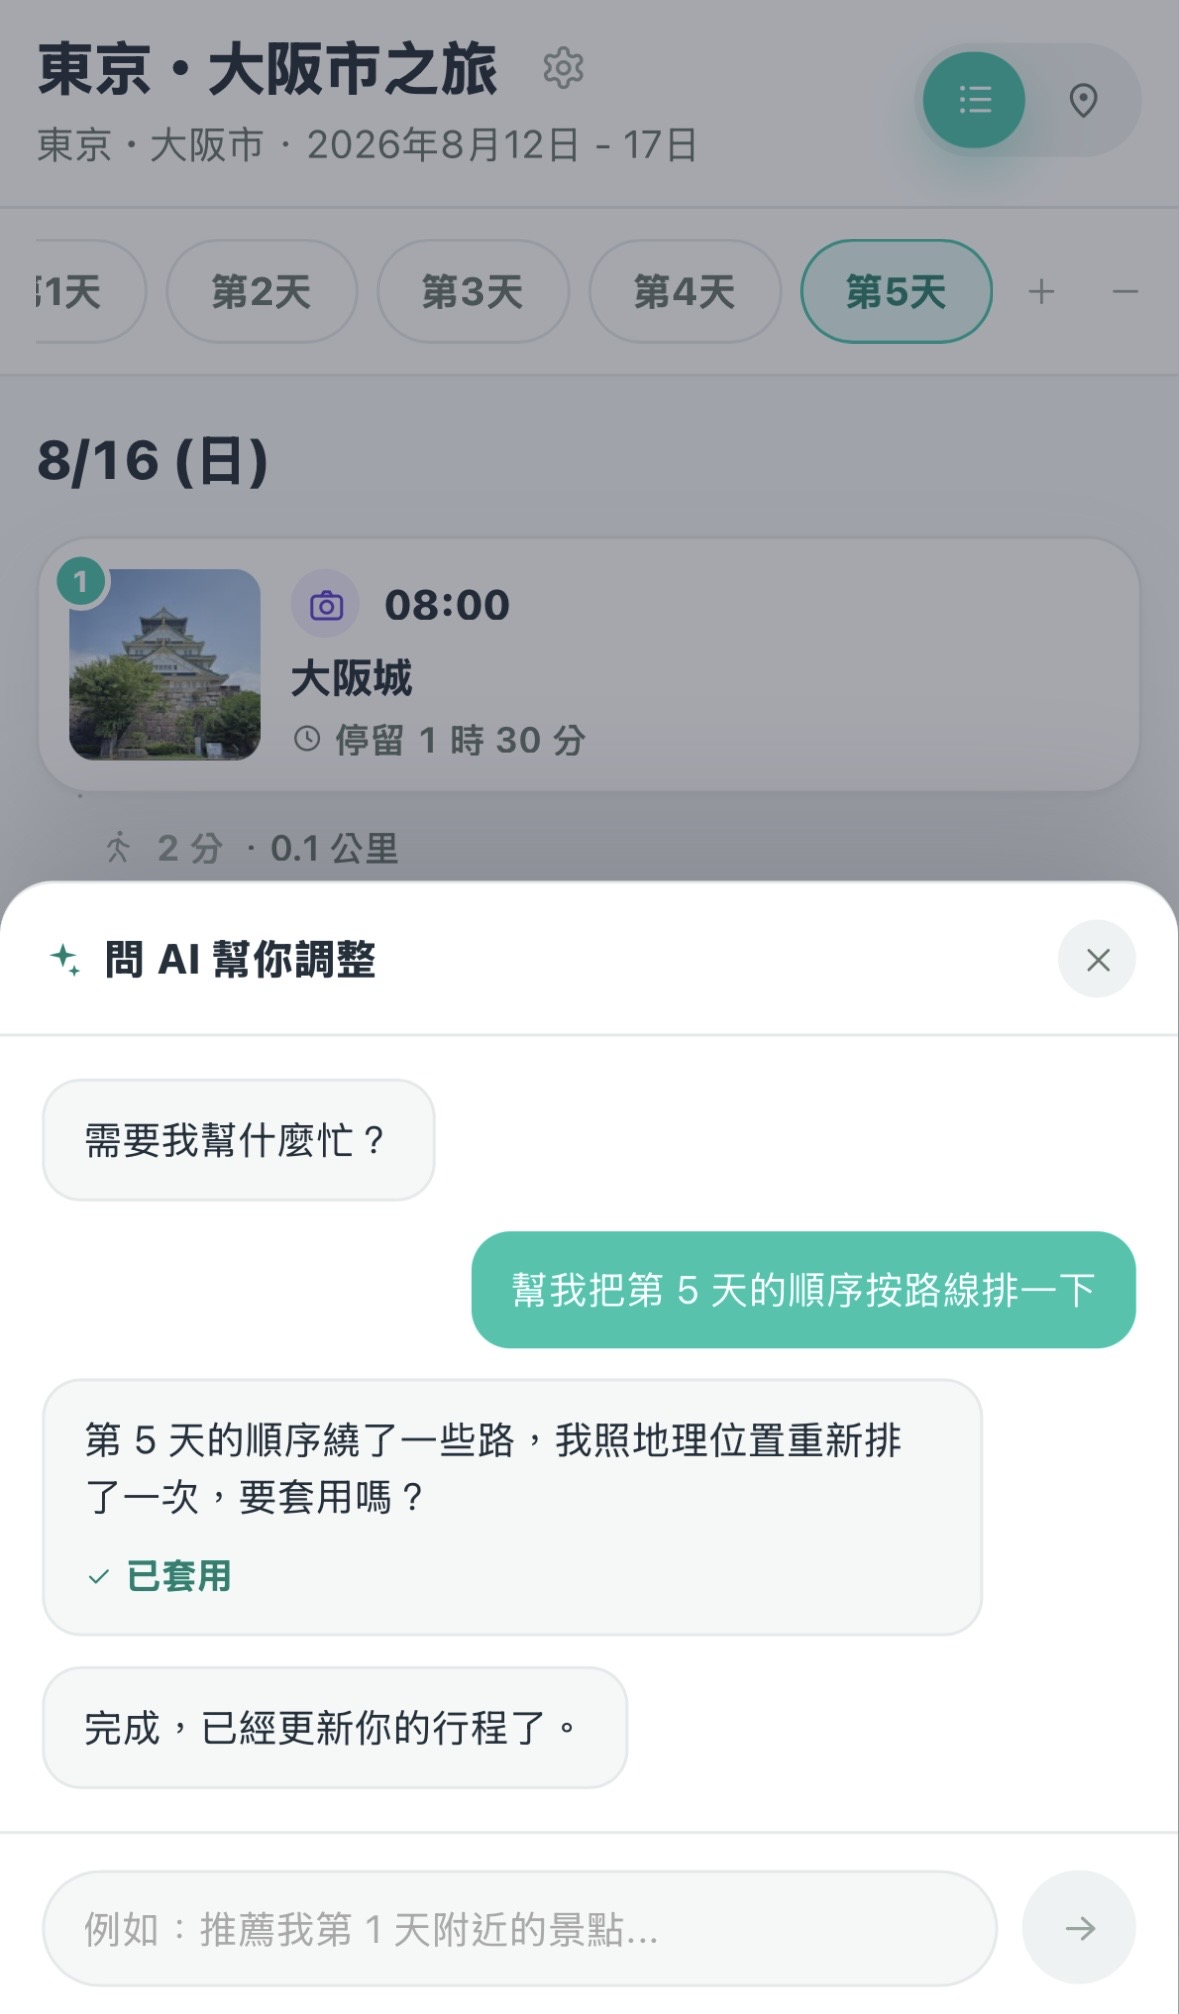
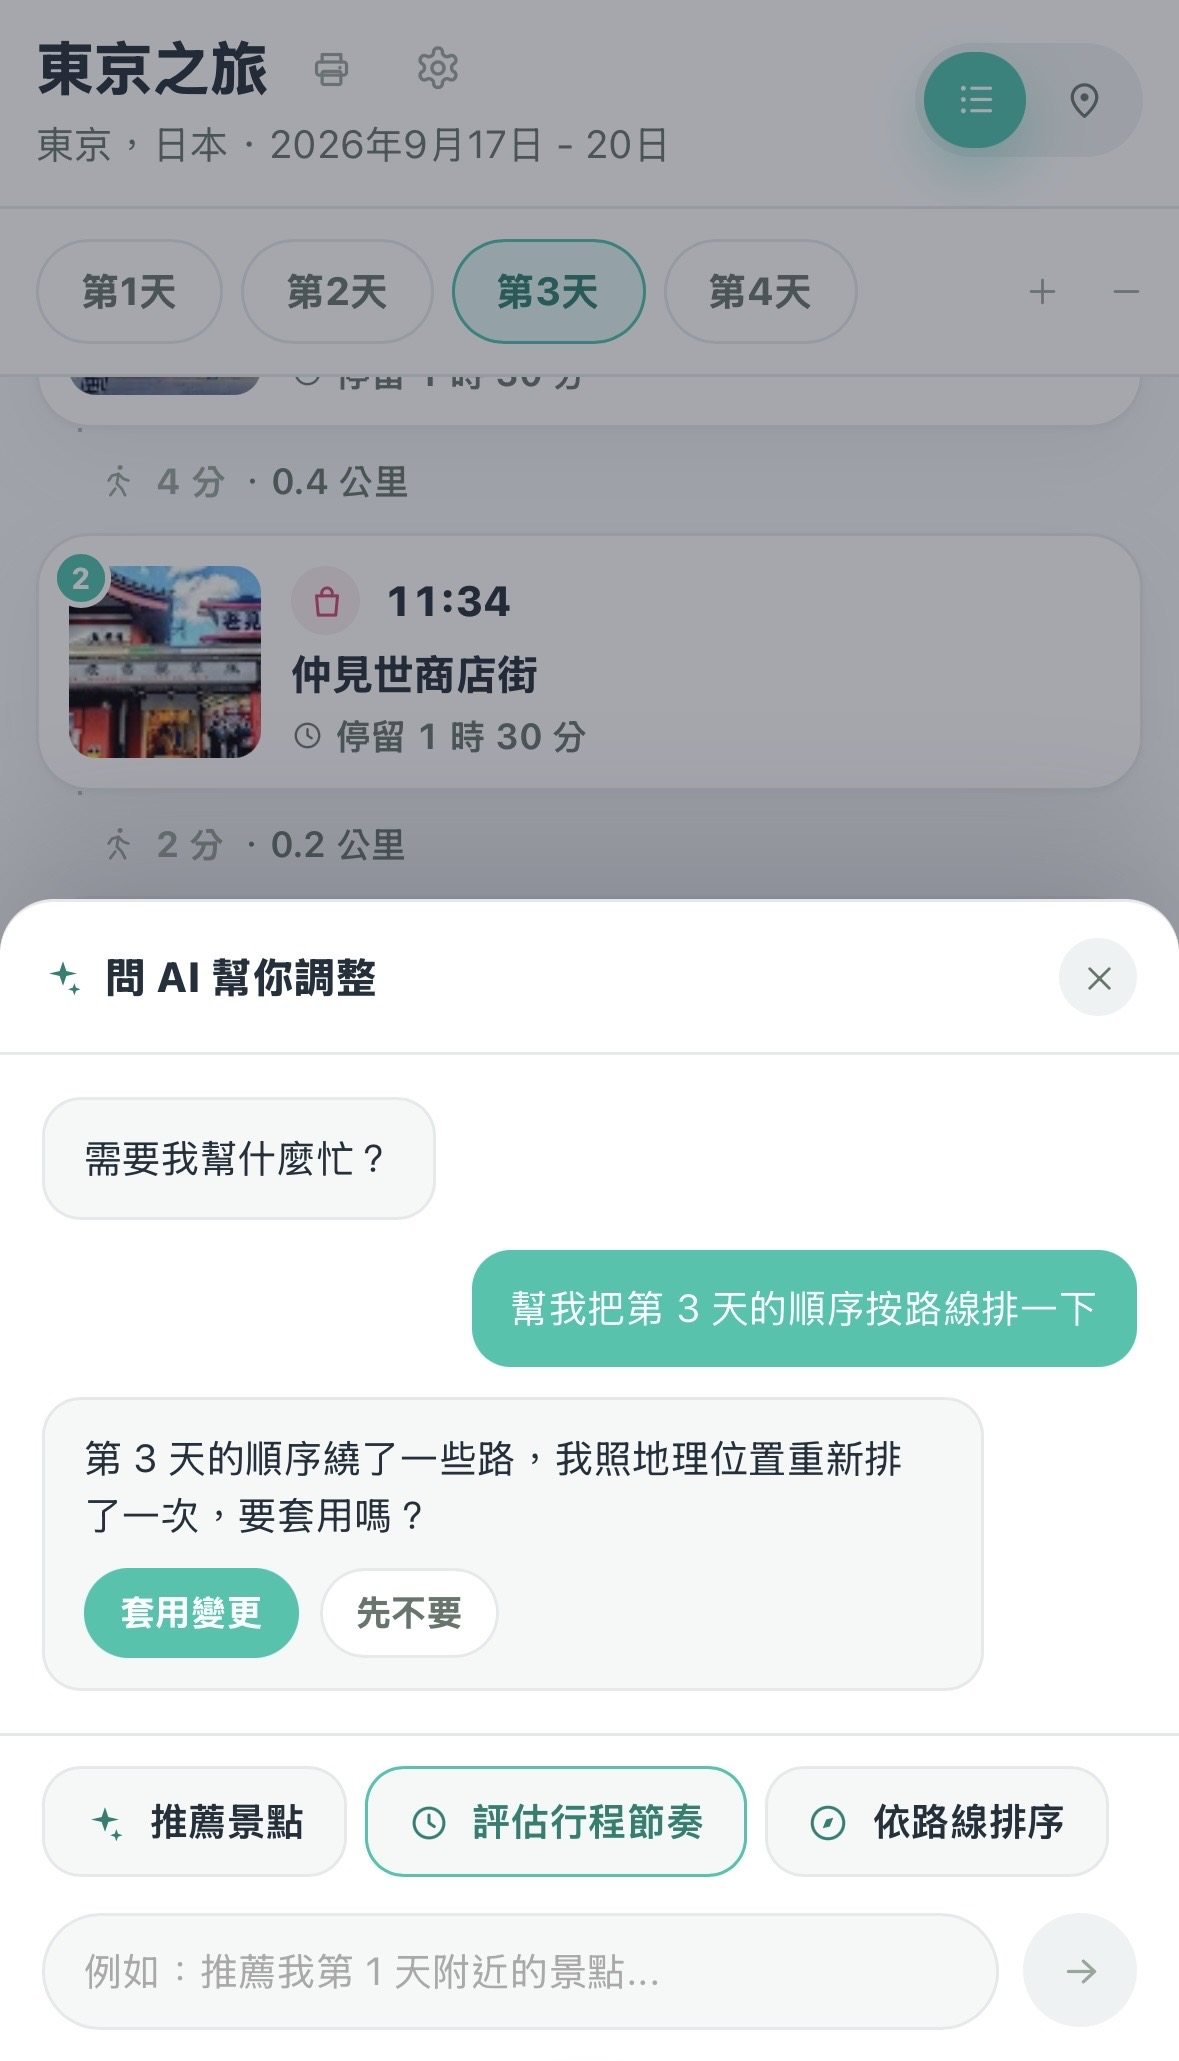
refactor: update text for route sorting suggestions to improve clarity in AskAiPanel

diff --git a/src/components/trips/AskAiPanel.vue b/src/components/trips/AskAiPanel.vue
@@ -207,7 +207,7 @@ type SuggestionKind = 'suggest' | 'pace' | 'route'
 const suggestionChips: { kind: SuggestionKind; icon: IconName; label: string }[] = [
   { kind: 'suggest', icon: 'sparkle', label: '推薦景點' },
   { kind: 'pace', icon: 'clock', label: '評估行程節奏' },
-  { kind: 'route', icon: 'compass', label: '依路線排序' },
+  { kind: 'route', icon: 'compass', label: '一鍵排序路線' },
 ]
 const pendingSuggestion = ref<SuggestionKind | null>(null)
 
@@ -457,9 +457,9 @@ function messageFromAskAiResult(result: AskAiResult): Omit<AiMessage, 'id' | 'ro
   }
 
   if (result.type === 'reorder_day') {
-    // Same client-computed heuristic as the "依路線排序" suggestion chip
+    // Same client-computed heuristic as the "一鍵排序路線" suggestion chip
     // (sendRouteRequest) — reused here so a typed-out request ("幫我把第三
-    // 天順序按路線排一下") gets the same real answer instead of Claude
+    // 天的地點依地理位置排一下") gets the same real answer instead of Claude
     // declining because none of its other tools fit "reorder a whole day".
     const targetColumn = activeTrip.value?.columns.find((item) => item.id === result.columnId)
     if (!targetColumn) return { text: '這個行程沒有找到那一天。' }
@@ -527,7 +527,7 @@ async function sendRouteRequest(dayNumber: number) {
   const column = activeTrip.value?.columns.find((item) => item.dayNumber === dayNumber)
   if (!column) return
 
-  messages.value.push({ id: nanoid(), role: 'user', text: `幫我把第 ${dayNumber} 天的順序按路線排一下` })
+  messages.value.push({ id: nanoid(), role: 'user', text: `幫我把第 ${dayNumber} 天的地點依地理位置排一下` })
   scrollToBottom()
 
   isThinking.value = true

diff --git a/src/components/trips/AskAiPanel.spec.ts b/src/components/trips/AskAiPanel.spec.ts
@@ -193,7 +193,7 @@ describe('AskAiPanel', () => {
     expect(store.places.find((p) => p.id === 'p1')!.columnId).toBe('day-2')
   })
 
-  it('依路線排序 proposes a reorder for an out-of-order day, and applying it reorders the column', async () => {
+  it('一鍵排序路線 proposes a reorder for an out-of-order day, and applying it reorders the column', async () => {
     const { wrapper, store } = mountPanel((store) => {
       store.trips.push(
         seedTrip({
@@ -213,7 +213,7 @@ describe('AskAiPanel', () => {
     })
     await wrapper.find('.ask-ai-launcher').trigger('click')
 
-    const routeChip = wrapper.findAll('.ask-ai-suggestion').find((c) => c.text().includes('依路線排序'))!
+    const routeChip = wrapper.findAll('.ask-ai-suggestion').find((c) => c.text().includes('一鍵排序路線'))!
     await routeChip.trigger('click')
     await wrapper.findAll('.ask-ai-day-chip')[0]!.trigger('click')
     await waitForThinking()

diff --git a/src/data/generateTrip.ts b/src/data/generateTrip.ts
@@ -516,7 +516,7 @@ export const TIME_BUCKET_WEIGHT: Record<string, number> = { morning: 0, afternoo
 // placed (via the `nextIndex` default of 0), just in their original
 // relative order within the bucket, since there's nothing to measure them
 // against. Shared by generateTrip.ts's generation-time day ordering and
-// AskAiPanel.vue's post-edit "依路線排序" so the two don't drift apart —
+// AskAiPanel.vue's post-edit "一鍵排序路線" so the two don't drift apart —
 // they differ only in which distance metric and coordinate guarantee they
 // pass in.
 export function orderByTimeBucket<T>(

diff --git a/src/styles/global.scss b/src/styles/global.scss
@@ -5242,6 +5242,16 @@ h3 {
     gap: 8px;
   }
 
+  // Overrides the 1100px breakpoint's hardcoded bottom: 90px above — that
+  // value predates --bottomnav-h and doesn't account for
+  // env(safe-area-inset-bottom) baked into it, so on a phone with a home
+  // indicator the pill's bottom edge lands inside .mobile-bottom-nav's own
+  // footprint and gets clipped by it (same z-index, nav wins on being later
+  // in the DOM).
+  .board-toast {
+    bottom: calc(16px + var(--bottomnav-h));
+  }
+
   .ask-ai-launcher {
     position: fixed;
     right: 16px;
